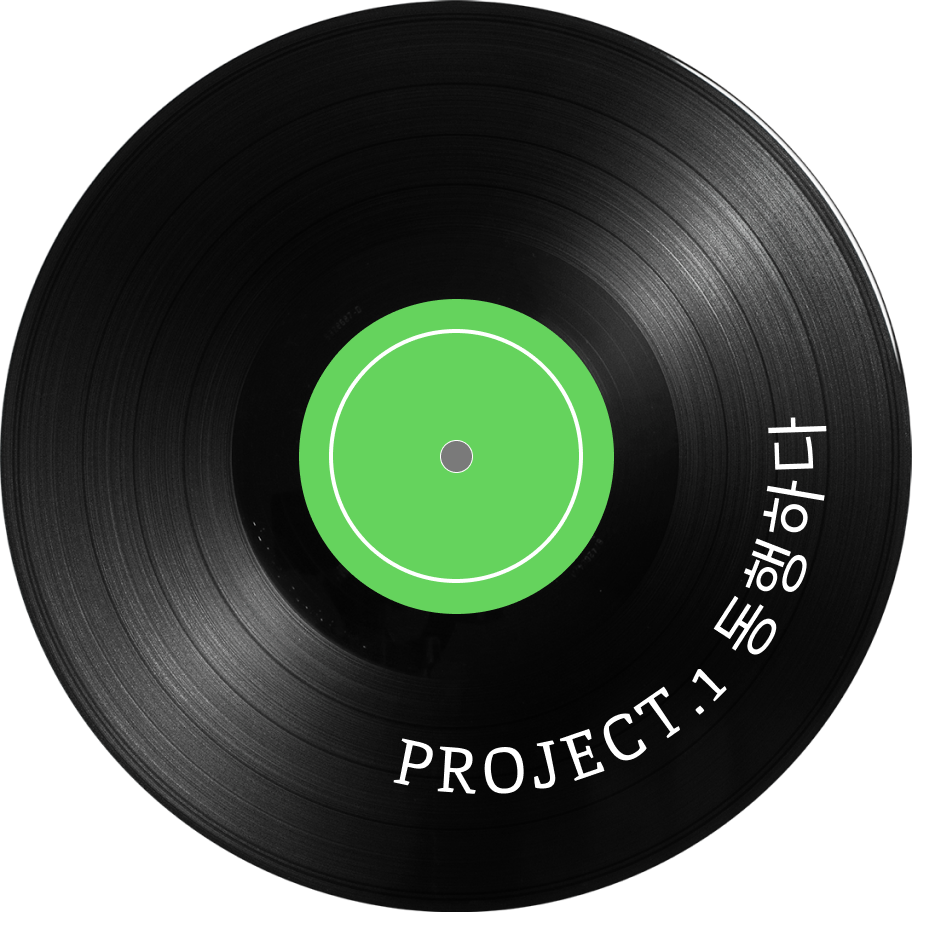
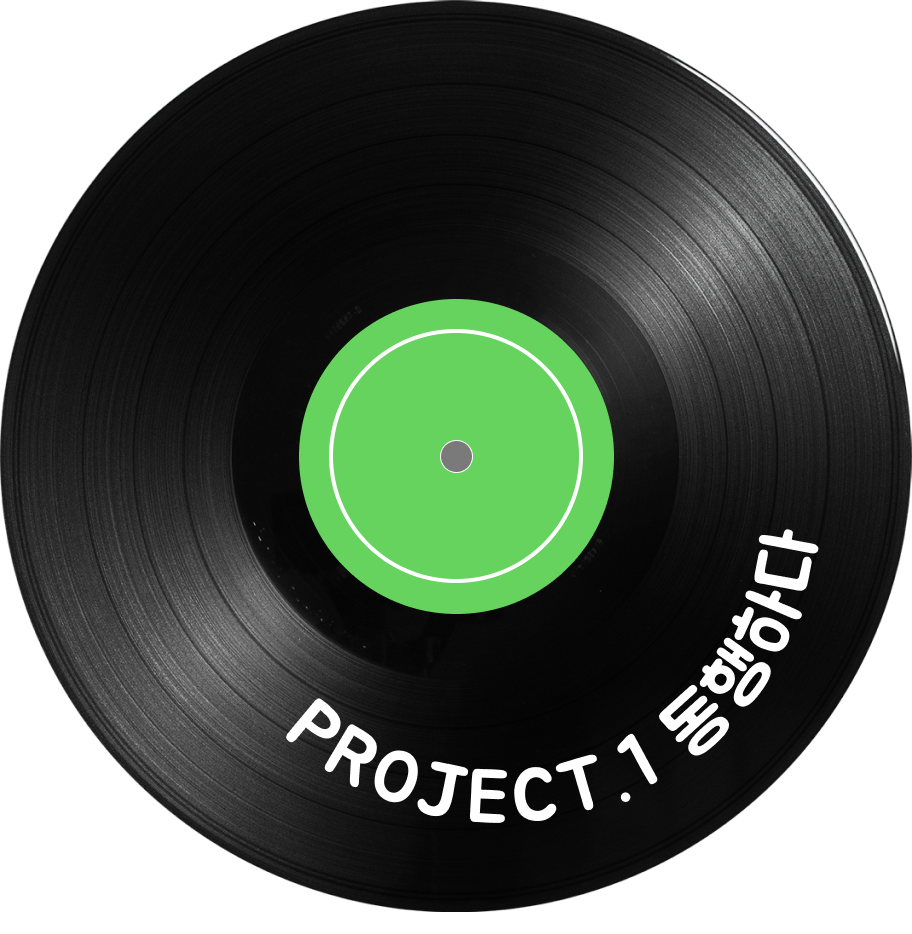
refactor : lp이미지 변경 및 불필요한 코드삭제

diff --git a/app/(pages)/main/page.tsx b/app/(pages)/main/page.tsx
@@ -2,11 +2,6 @@ import Header from "@/app/common/component/Header";
 import MainLayout from "@/app/features/main/component/MainLayout";
 
 export default function Page() {
-  const func = {
-    onDragEnd : (res?: any) => {
-      console.log(res)
-    }
-  }
   return (
     <>
         <Header />
